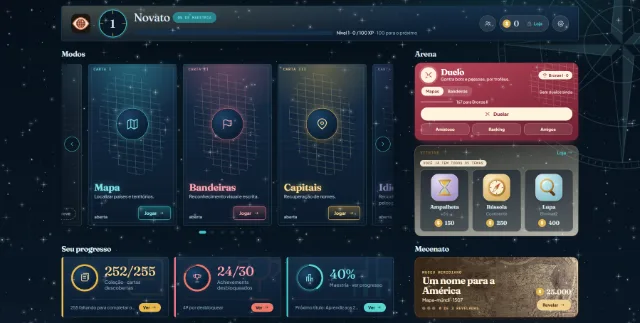
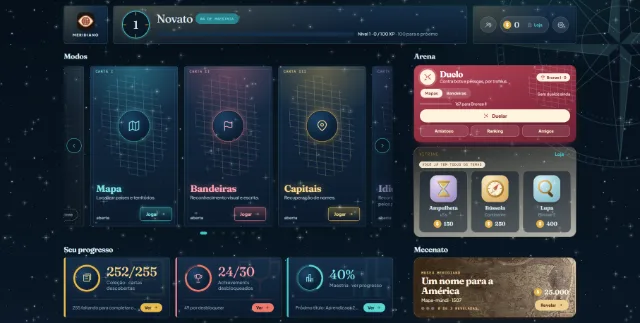
feat(hub): cabeçalho híbrido B+C no desktop (três peças soltas, cada tema pinta as suas) e barra compacta no celular

diff --git a/src/components/screens.tsx b/src/components/screens.tsx
@@ -313,9 +313,9 @@ export function Hub({
   return (
     <main className="content hub-content hx">
       <h1 className="sr-only">Meridiano</h1>
-      <header className="hub-bar hx-bar" aria-label={t.hub.profileAria}>
-        <div className="hub-brand" aria-hidden="true"><BrandLogo /><span>MERIDIANO</span></div>
-        <div className="hub-player">
+      <header className="hub-bar hx-bar hx-head" aria-label={t.hub.profileAria}>
+        <div className="hub-bar hx-piece hx-p-brand"><div className="hub-brand" aria-hidden="true"><BrandLogo /><span>MERIDIANO</span></div></div>
+        <div className="hub-bar hx-piece hx-p-player"><div className="hub-player">
           <div className={`hub-level${framed ? " lg-frame" : ""}`} data-league={framed ? league.league : undefined} role="img" aria-label={t.hub.levelAria(level, xpInLevel, xpSpan)}>
             <LevelTicks />
             <svg className="hub-level-ring" viewBox="0 0 132 132" aria-hidden="true"><circle className="hub-ring-track" cx="66" cy="66" r="58" />{xpInLevel > 0 && xpSpan > 0 && <circle className="hub-ring-arc" cx="66" cy="66" r="58" strokeDasharray={`${2 * Math.PI * 58 * Math.min(1, xpInLevel / xpSpan)} ${2 * Math.PI * 58}`} />}</svg>
@@ -332,12 +332,12 @@ export function Hub({
             <div className="hub-track" role="progressbar" aria-label={t.hub.xpProgressAria} aria-valuemin={0} aria-valuemax={xpSpan} aria-valuenow={xpInLevel}><i style={{ width: `${ratioPercent(xpInLevel, xpSpan)}%` }} /></div>
             <span className="hub-xp-label">{t.hub.levelLineSpaced(level, xpInLevel, xpSpan)}<span className="hub-xp-next"> · {t.hub.xpToNext(xpToNext)}</span></span>
           </div>
-        </div>
-        <div className="hub-stats">
+        </div></div>
+        <div className="hub-bar hx-piece hx-p-wallet"><div className="hub-stats">
           {arenas?.onFriends && <button type="button" className="hub-friends" aria-label={t.hub.duelFriends} title={t.hub.duelFriends} onClick={arenas.onFriends}><Icon type="people" size={19} /><span>{t.hub.duelFriends}</span></button>}
           <button type="button" className="hub-coin" aria-label={t.hub.coinAria(formatNumber(economy?.balance ?? 0))} title={t.nav.store} onClick={() => onNavigate?.("store")}><i aria-hidden="true">$</i><strong>{formatNumber(economy?.balance ?? 0)}</strong><span className="hub-coin-store"><Icon type="store" size={15} /> {t.nav.store}</span></button>
           <button type="button" className="hub-gear" aria-label={t.nav.openOptions} title={t.nav.options} onClick={() => onNavigate?.("options")}><Icon type="settings" /></button>
-        </div>
+        </div></div>
       </header>
       <div className="hx-grid">
         <section className="hx-cell hx-modes" aria-labelledby="hx-modes-title">

diff --git a/src/hub.css b/src/hub.css
@@ -48,10 +48,17 @@
 .hx .hub-friends,.hx .hub-gear,.hx .hub-coin{background:rgba(255,255,255,.78);border:1px solid color-mix(in srgb,var(--line) 80%,#fff);color:var(--ink)}
 :root[data-scheme=dark] .hx .hub-friends,:root[data-scheme=dark] .hx .hub-gear,:root[data-scheme=dark] .hx .hub-coin{background:rgba(255,255,255,.09);border-color:rgba(255,255,255,.2)}
 @media (min-width:761px){
-  .hx .hub-bar{height:100px;padding:0 26px;gap:24px;border-radius:26px;box-shadow:0 22px 34px -24px rgba(36,59,58,.6)}
-  .hx .hub-brand{border-right:0;padding:0}
-  .hx .hub-brand span{display:none}
-  .hx .hub-brand .brand-logo{width:54px;height:54px;border-radius:15px;box-shadow:0 10px 16px -10px rgba(0,0,0,.6)}
+  /* três peças soltas (marca · jogador · carteira): cada uma leva a classe hub-bar, então cada tema pinta as três com o próprio acabamento; o contêiner fica sem fundo */
+  .hx .hx-head{display:flex;align-items:stretch;gap:16px;height:auto;min-height:0;padding:0;margin:0 0 4px;overflow:visible;background:none!important;border:0!important;box-shadow:none!important;-webkit-backdrop-filter:none!important;backdrop-filter:none!important}
+  .hx .hx-head::before{content:none}
+  .hx .hx-piece{display:flex;align-items:center;height:auto;margin:0;padding:14px 24px;gap:14px;border-radius:22px;box-shadow:0 18px 28px -22px rgba(36,59,58,.6)}
+  .hx .hx-p-brand{flex:none;flex-direction:column;justify-content:center}
+  .hx .hx-p-brand .hub-brand{flex-direction:column;gap:8px;padding:0;border:0;font-size:10px;letter-spacing:.18em}
+  .hx .hx-p-brand .hub-brand span{display:block;padding:0}
+  .hx .hx-p-brand .hub-brand .brand-logo{width:50px;height:50px;border-radius:14px;box-shadow:0 10px 16px -10px rgba(0,0,0,.6)}
+  .hx .hx-p-player{flex:1;min-width:0}
+  .hx .hx-p-player .hub-player{flex:1}
+  .hx .hx-p-wallet{flex:none;padding:14px 20px}
   .hx .hub-player{column-gap:20px;row-gap:7px}
   .hx .hub-level{width:78px;height:78px;filter:drop-shadow(0 10px 14px rgba(36,59,58,.3))}
   .hx .hub-level strong{font-size:32px}
@@ -258,6 +265,7 @@
 /* ───────── celular: tudo numa tela, sem rolagem ─────────
    cabeçalho, UM modo por vez (com os vizinhos espiando e laço), Duelo e, na última linha, Vitrine e Mecenato; o progresso fica por conta da barra de baixo */
 @media (max-width:760px){
+  .hx .hx-piece{display:contents}
   .hx{padding:8px 8px 10px!important;min-height:0;grid-template-rows:auto minmax(min-content,1fr);overflow-x:hidden;overflow-y:auto}
   .hx .section-label{position:absolute;width:1px;height:1px;margin:0;overflow:hidden;clip:rect(0 0 0 0);white-space:nowrap}
   .hx .hub-bar{gap:8px;height:auto;padding:7px 9px;margin:0;border-radius:16px}

diff --git a/CLAUDE.md b/CLAUDE.md
@@ -53,7 +53,7 @@ Este arquivo descreve o **rebuild** (estado em 25/09/2026). O jogo antigo, um ú
 Hub (4 famílias: Mapa, Bandeiras, Capitais, Idiomas; carrossel no celular; seletor Solo | Duelo, ver 3.2d) → "Configure a partida" (`match-config.tsx`: **Modo, Ritmo, Rodadas, Recorte, Filtro "Só membros da ONU"**, ligado por padrão desde 26/09; a escolha vale até fechar o app, não é gravada) → partida → resultado (`result-screen.tsx`, moedas/XP). Fora da partida: Progresso (Perfil, Maestria, Conquistas, Desempenho), Coleção (Países / Históricas), Conquistas, Loja (temas), Opções (idioma, tema, movimento reduzido, barra de tempo, progresso, mapa offline, debug). `useLeaveGuard`: sair no meio **não paga moedas nem XP**; com ao menos uma resposta pede confirmação.
 
 ### 3.2e Hub novo (03/10/2026, em etapas; mocks aprovados em `../mockups-carta-cega/hub-final`)
-O Hub (`screens.tsx`, `hub-parts.tsx`, `hub.css`) foi refeito: **header fino** de uma linha (marca, anel de nível com a moldura da liga, título, ícones dos títulos, chip de maestria, barra de XP, chip de troféus, moedas com a palavra "Loja", engrenagem; partidas e rodadas saíram do Hub, seguem no Progresso) e **grade 2×2**: à esquerda o **carrossel dos modos** (`HubCarousel`, **em laço**: 3 cartões inteiros por vez no desktop, 2 em tablet e 1 no celular, com a borda do vizinho aparecendo dos dois lados, setas nos dois sentidos, pontos, deslize por toque e clique no vizinho para avançar; hoje Mapa, Bandeiras, Capitais e Idiomas. O laço é a fila renderizada 3 vezes, só a do meio interativa e as outras `inert`, e a posição volta em silêncio para a do meio quando o deslize termina; o passo é medido com `getBoundingClientRect`, porque `offsetLeft` arredonda e o erro cresce a cada cartão) e embaixo "Seu progresso" (3 tiles verticais); à direita o **Duelo** (`HubDuel`) e a **Vitrine** (`HubShowcase`) e embaixo o **Mecenato** (`HubMuseum`, abre a aba do Museu da Coleção por `initialAlbum`). O interruptor Solo | Duelo **saiu**: o Duelo mora no próprio cartão (escada Mapas | Bandeiras, liga e troféus, últimos 5 resultados, "Duelar" na fila valendo, e Amistoso, Ranking e Amigos; buscando, vira "Procurando… m:ss", duelar contra bot e cancelar). O painel "Próximos prêmios" da arena antigo foi trocado pela barra "N para a próxima divisão" no cartão; `DuelArenas` e `duelMode` foram **removidos** em 04/10 (o tipo `ArenaSearch` mora em `hub-parts.tsx`; "Jogar contra bots" da tela da fila só volta ao Hub). **Vitrine:** `pickShowcaseTheme` (`hub-showcase.ts`, `test:hub-showcase`) mostra o tema mais caro que cabe no saldo (ou o mais barato que falta); **com todos os temas comprados destaca os três suprimentos** (Ampulheta, Bússola e Lupa, com ilustrações próprias em `supply-art.tsx`, usadas também na Loja) e o toque leva à Loja já na aba Suprimentos (`onOpenSupplies`, `storeTab` no `app.tsx`). **Cartão de modo:** precisão do pilar (`titleScore`) vinda do `syncAchievements` do app. **Cabeçalho "medalhas" (04/10, opção C dos mocks em `mockups-carta-cega/hub-header`, escolhida pelo Enzo):** barra de 100 px (desktop) com anel de nível de 78 px, nome grande, **títulos como medalhas redondas de latão** (o nome fica em `title` e no rótulo para leitor de tela), maestria em pílula verde-escura, barra de XP com marcas de 10%, marca só com o logo, e à direita **Amigos, moedas e engrenagem em fichas brancas** (decisão do Enzo: a pílula de moedas em latão brigava com a moeda dourada). O brilho de latão é um `::before` à parte, então fundo, borda e raio de cada tema seguem sendo dos temas; no celular o cabeçalho compacto de antes só ganhou as fichas brancas. Mocks B (peças soltas) e D (faixa escura) ficaram descartados. **Ajustes de 04/10 (feedback do Enzo no link ao vivo):** o **chip de troféus/elo saiu do cabeçalho** (duplicava a pílula do cartão do Duelo, que segue abrindo a Liga) e entrou o botão **Amigos** (`.hub-friends`, ícone `people`; só ícone no celular); a marca ficou maior e o XP ocupa o meio; com a largura do cabeçalho sobrando, os selos de título mostram o nome a partir de 1280 px. O carrossel ganhou **Gentílicos e Moedas como "Em breve"** (cartões `.is-soon`, sem ação, na tinta do tema; quando o modo existir, vira item de `familyItems`). **"Seu progresso"** foi refeito no desktop: cada tile tem um **anel de progresso** em volta do ícone, o número grande, uma marca d'água do ícone, a legenda e um botão "Ver" (cor própria por tile, mais clara no esquema escuro; `--tile`). **Largura (04/10, pedido do Enzo):** o Hub usa até 1560 px (antes 1168; testei 1760 e as laterais do cabeçalho ficavam vazias, 04/10), com a coluna da direita entre 320 e 460 px e um vão de 30 a 60 px entre as colunas; os cartões de modo não encolhem, quem cede é o vão. **Celular (≤760 px):** tudo numa tela e sem rolagem: cabeçalho, **um modo por vez** num retângulo grande (carrossel em laço, com os vizinhos espiando e setas), Duelo em faixa e, na última linha antes da barra de baixo, Vitrine e Mecenato lado a lado; **o progresso saiu do celular** (a barra de baixo já cumpre o papel) e as pílulas "Mais modos" também (todos os modos estão no carrossel). Em telefone baixo (≤700 px de altura) somem a descrição e o resumo da última partida do cartão. CSS: `hub.css` vem depois do `index.css` e antes dos temas; os temas seguem pintando `.hub-bar`, `.family` e os tiles; as peças novas só usam variáveis de cor. **"Continuar" embutido (etapa 2):** ao começar uma partida solo o app grava a configuração do modo (`carta-last-config:<modo>`, `parseLastConfig` em `presets.ts`, testado em `test:presets`); o cartão mostra uma pílula com ela (nome da favorita, ex. "Escrita · Mundo · 20"), o botão **Continuar** (repete sem passar pela configuração; `continueGame` no `app.tsx`, que cai na configuração se o modo ou o corte de rodadas não estiver liberado) e o ícone de **ajustar** (abre a configuração); sem partida gravada, só "Jogar". O cartão inteiro é uma sobreposição (`.hx-hit`) que abre a configuração. A barra de baixo do celular passou a ter os cinco destinos com rótulo (Modos, Coleção, Conquistas, Progresso e **Loja**; as Opções abrem pela engrenagem do Hub). **Loja reimaginada (etapa 3, 03/10/2026; `store-view.tsx`, `store.css`, `domain/store-catalog.ts`, `test:store-catalog`):** a tela é uma vitrine, não uma lista: barra fina (← Hub, "Loja", saldo), **destaque** (`pickShowcaseTheme`, o mesmo do Hub: o tema mais caro que cabe, senão o mais barato que falta, com barra "Você tem X · faltam Y"; some quando todos os temas são seus), **abas** Tudo, Temas, Modos, Rodadas, Suprimentos e Ligas (contadores do que falta comprar, `storeCounts`), **"Sugestões para você"** (`storeSuggestions`: o modo mais barato, o tema mais perto do saldo, o corte de rodadas mais barato e um suprimento), seções por tipo e a faixa do Mecenato (abre a aba Museu da Coleção). **Tudo o que se compra passa por uma confirmação** (`PurchaseDialog`: preço, saldo, depois ou quanto falta; folha inferior no celular; Esc fecha; suprimento tem seletor de quantidade). Modos à venda vêm de `POLICIES` (custo > 0) e se compram com `unlockContent(família, variante, "mundo")`; cortes de rodada com `unlockRounds`; temas e suprimentos como antes. **Experimentar (04/10):** na confirmação de compra de um tema (e no destaque) há "Experimentar": o tema vale na tela sem gravar nem cobrar (`tryTheme`/`trial` no `app.tsx`; o `localStorage` segue com o tema de verdade), uma faixa `TrialBar` avisa no Hub e na Loja, e o teste acaba quando a pessoa **sai do resultado da próxima partida** (ou em "Sair do teste"); comprar durante o teste limpa o teste. Temas de liga não se experimentam. **Sem temas a comprar, o destaque do topo mostra os três suprimentos** (como a Vitrine do Hub). **Largura e cor (04/10):** a Loja usa a mesma largura do Hub (até 1560 px) com colunas que se adaptam (`auto-fill`); as linhas curtas da aba Tudo mostram 4 cartões (6 acima de 1500 px) e os cartões de modo levam a cor da família (Mapa, Bandeiras, Capitais, Idiomas; `modeFam`), enquanto rodadas e suprimentos ficam na tinta do tema. **Prévias dos temas** (`scripts/build-theme-previews.mjs`, mostradas no destaque e nos cartões da Loja e na Vitrine) foram regeradas para o Hub novo: BASE padrão `127.0.0.1:5101` (servidor de desenvolvimento, nunca a 5000), perfil de amostra com todos os temas (por isso a Vitrine sai com os suprimentos em todas), `captureBeyondViewport:false` (o padrão do Puppeteer redimensiona a janela e o scroll-snap do carrossel trocava de cartão) e a captura é reduzida no próprio Chrome para 640×323, uns 20 KB cada. Rode de novo quando o Hub ou o CSS de um tema mudar. O CSS antigo `store-*` dos temas foi removido em 04/10 (sobrou só `.store-swatches`, agora em `store.css`, usado também pela Vitrine do Hub). Cores só por variáveis do tema (`color-mix` com `--brass`, `--green`, `--ink`), então os temas escuros não pedem regra própria; `audit-theme.mjs <tema> loja` (agora com as abas novas e as duas confirmações) fecha com 0 violações em Pigmentos, Noturno, Cartógrafo, Prata, Aquarela e Atlas no desktop e em Pigmentos, Noturno, Cartógrafo e Atlas no celular. Junto saíram o ícone `check` e o ícone `close` (o `cross` do projeto desenha um "+") e a barra superior genérica (`.topbar`) dos temas escuros, que ficava creme (`themes-dark.css`). **Mesa de jogo (04/10/2026; `match-config.tsx`, `mesa.css`, mock `hub-v10` n4–n7):** a tela "Configure a partida" virou a Mesa: **a Mesa mostra só os modos da família que foi aberta** (decisão do Enzo, 04/10: quem clica em Mapas vê modos de mapa; a faixa que trocava de família foi tirada), em cartões grandes sob o rótulo "Modo" (com dica, cadeado e preço), Ritmo, Rodadas e Recorte lado a lado, filtro da ONU, Favoritas e a barra de resumo com "Começar". O topo é a `ScreenBar` (`screen-bar.tsx`, a mesma da Loja: marca, voltar, ícone da família ou título, saldo). A família pinta a tela (`data-fam` no `.mz` entrega o `--h` do tema). Ao lado: **Seu histórico** (anel com a precisão do pilar; **sem o gráfico das últimas partidas e sem "Mais difíceis para você" nem "Pergunta de exemplo" do mock**, que pedem dados/textos novos) e **Recompensa** (moedas por acerto, teto de sequência `STREAK_CAP` e bônus por rodada completa). Toda a lógica da tela antiga (compra de modo e de corte de rodadas, direção das bandeiras, favoritas) foi mantida. **Armadilha (achada na Mesa):** o carrossel do Hub trata clique **sem coordenadas** (`element.click()`) como clique no vizinho; testes de navegador precisam de clique de verdade (`openMode` em `audit-theme.mjs`). **Bug corrigido junto:** em temas que põem camadas sobre o cartão (Noturno) a arte do cartão do Hub interceptava o clique; `.family-visual` e `.family-copy` agora têm `pointer-events:none`.
+O Hub (`screens.tsx`, `hub-parts.tsx`, `hub.css`) foi refeito: **header fino** de uma linha (marca, anel de nível com a moldura da liga, título, ícones dos títulos, chip de maestria, barra de XP, chip de troféus, moedas com a palavra "Loja", engrenagem; partidas e rodadas saíram do Hub, seguem no Progresso) e **grade 2×2**: à esquerda o **carrossel dos modos** (`HubCarousel`, **em laço**: 3 cartões inteiros por vez no desktop, 2 em tablet e 1 no celular, com a borda do vizinho aparecendo dos dois lados, setas nos dois sentidos, pontos, deslize por toque e clique no vizinho para avançar; hoje Mapa, Bandeiras, Capitais e Idiomas. O laço é a fila renderizada 3 vezes, só a do meio interativa e as outras `inert`, e a posição volta em silêncio para a do meio quando o deslize termina; o passo é medido com `getBoundingClientRect`, porque `offsetLeft` arredonda e o erro cresce a cada cartão) e embaixo "Seu progresso" (3 tiles verticais); à direita o **Duelo** (`HubDuel`) e a **Vitrine** (`HubShowcase`) e embaixo o **Mecenato** (`HubMuseum`, abre a aba do Museu da Coleção por `initialAlbum`). O interruptor Solo | Duelo **saiu**: o Duelo mora no próprio cartão (escada Mapas | Bandeiras, liga e troféus, últimos 5 resultados, "Duelar" na fila valendo, e Amistoso, Ranking e Amigos; buscando, vira "Procurando… m:ss", duelar contra bot e cancelar). O painel "Próximos prêmios" da arena antigo foi trocado pela barra "N para a próxima divisão" no cartão; `DuelArenas` e `duelMode` foram **removidos** em 04/10 (o tipo `ArenaSearch` mora em `hub-parts.tsx`; "Jogar contra bots" da tela da fila só volta ao Hub). **Vitrine:** `pickShowcaseTheme` (`hub-showcase.ts`, `test:hub-showcase`) mostra o tema mais caro que cabe no saldo (ou o mais barato que falta); **com todos os temas comprados destaca os três suprimentos** (Ampulheta, Bússola e Lupa, com ilustrações próprias em `supply-art.tsx`, usadas também na Loja) e o toque leva à Loja já na aba Suprimentos (`onOpenSupplies`, `storeTab` no `app.tsx`). **Cartão de modo:** precisão do pilar (`titleScore`) vinda do `syncAchievements` do app. **Cabeçalho híbrido B+C (04/10, mocks em `mockups-carta-cega/hub-header`, escolhido pelo Enzo):** no desktop o cabeçalho são **três peças soltas** (marca com o nome embaixo · jogador · carteira), cada uma com a classe `hub-bar` (`hx-piece`), então **cada tema pinta as três com o próprio acabamento** (vidro no Noturno, folha reta no Atlas…); o contêiner (`hx-head`, também `hub-bar`) fica sem fundo com `!important`. O jogador tem anel de 78 px, nome grande, **títulos como medalhas redondas de latão** (nome em `title` e no rótulo para leitor de tela), maestria em pílula verde-escura e barra de XP com marcas de 10%; à direita **Amigos, moedas e engrenagem em fichas brancas** (a pílula de moedas em latão brigava com a moeda dourada). O brilho de latão é um `::before` à parte. **No celular as peças se desfazem (`display:contents`) e voltam a ser uma barra compacta só** (não há espaço para subdivisões); o desenho B puro (peças com texto) e o D (faixa escura) foram descartados. **Ajustes de 04/10 (feedback do Enzo no link ao vivo):** o **chip de troféus/elo saiu do cabeçalho** (duplicava a pílula do cartão do Duelo, que segue abrindo a Liga) e entrou o botão **Amigos** (`.hub-friends`, ícone `people`; só ícone no celular); a marca ficou maior e o XP ocupa o meio; com a largura do cabeçalho sobrando, os selos de título mostram o nome a partir de 1280 px. O carrossel ganhou **Gentílicos e Moedas como "Em breve"** (cartões `.is-soon`, sem ação, na tinta do tema; quando o modo existir, vira item de `familyItems`). **"Seu progresso"** foi refeito no desktop: cada tile tem um **anel de progresso** em volta do ícone, o número grande, uma marca d'água do ícone, a legenda e um botão "Ver" (cor própria por tile, mais clara no esquema escuro; `--tile`). **Largura (04/10, pedido do Enzo):** o Hub usa até 1560 px (antes 1168; testei 1760 e as laterais do cabeçalho ficavam vazias, 04/10), com a coluna da direita entre 320 e 460 px e um vão de 30 a 60 px entre as colunas; os cartões de modo não encolhem, quem cede é o vão. **Celular (≤760 px):** tudo numa tela e sem rolagem: cabeçalho, **um modo por vez** num retângulo grande (carrossel em laço, com os vizinhos espiando e setas), Duelo em faixa e, na última linha antes da barra de baixo, Vitrine e Mecenato lado a lado; **o progresso saiu do celular** (a barra de baixo já cumpre o papel) e as pílulas "Mais modos" também (todos os modos estão no carrossel). Em telefone baixo (≤700 px de altura) somem a descrição e o resumo da última partida do cartão. CSS: `hub.css` vem depois do `index.css` e antes dos temas; os temas seguem pintando `.hub-bar`, `.family` e os tiles; as peças novas só usam variáveis de cor. **"Continuar" embutido (etapa 2):** ao começar uma partida solo o app grava a configuração do modo (`carta-last-config:<modo>`, `parseLastConfig` em `presets.ts`, testado em `test:presets`); o cartão mostra uma pílula com ela (nome da favorita, ex. "Escrita · Mundo · 20"), o botão **Continuar** (repete sem passar pela configuração; `continueGame` no `app.tsx`, que cai na configuração se o modo ou o corte de rodadas não estiver liberado) e o ícone de **ajustar** (abre a configuração); sem partida gravada, só "Jogar". O cartão inteiro é uma sobreposição (`.hx-hit`) que abre a configuração. A barra de baixo do celular passou a ter os cinco destinos com rótulo (Modos, Coleção, Conquistas, Progresso e **Loja**; as Opções abrem pela engrenagem do Hub). **Loja reimaginada (etapa 3, 03/10/2026; `store-view.tsx`, `store.css`, `domain/store-catalog.ts`, `test:store-catalog`):** a tela é uma vitrine, não uma lista: barra fina (← Hub, "Loja", saldo), **destaque** (`pickShowcaseTheme`, o mesmo do Hub: o tema mais caro que cabe, senão o mais barato que falta, com barra "Você tem X · faltam Y"; some quando todos os temas são seus), **abas** Tudo, Temas, Modos, Rodadas, Suprimentos e Ligas (contadores do que falta comprar, `storeCounts`), **"Sugestões para você"** (`storeSuggestions`: o modo mais barato, o tema mais perto do saldo, o corte de rodadas mais barato e um suprimento), seções por tipo e a faixa do Mecenato (abre a aba Museu da Coleção). **Tudo o que se compra passa por uma confirmação** (`PurchaseDialog`: preço, saldo, depois ou quanto falta; folha inferior no celular; Esc fecha; suprimento tem seletor de quantidade). Modos à venda vêm de `POLICIES` (custo > 0) e se compram com `unlockContent(família, variante, "mundo")`; cortes de rodada com `unlockRounds`; temas e suprimentos como antes. **Experimentar (04/10):** na confirmação de compra de um tema (e no destaque) há "Experimentar": o tema vale na tela sem gravar nem cobrar (`tryTheme`/`trial` no `app.tsx`; o `localStorage` segue com o tema de verdade), uma faixa `TrialBar` avisa no Hub e na Loja, e o teste acaba quando a pessoa **sai do resultado da próxima partida** (ou em "Sair do teste"); comprar durante o teste limpa o teste. Temas de liga não se experimentam. **Sem temas a comprar, o destaque do topo mostra os três suprimentos** (como a Vitrine do Hub). **Largura e cor (04/10):** a Loja usa a mesma largura do Hub (até 1560 px) com colunas que se adaptam (`auto-fill`); as linhas curtas da aba Tudo mostram 4 cartões (6 acima de 1500 px) e os cartões de modo levam a cor da família (Mapa, Bandeiras, Capitais, Idiomas; `modeFam`), enquanto rodadas e suprimentos ficam na tinta do tema. **Prévias dos temas** (`scripts/build-theme-previews.mjs`, mostradas no destaque e nos cartões da Loja e na Vitrine) foram regeradas para o Hub novo: BASE padrão `127.0.0.1:5101` (servidor de desenvolvimento, nunca a 5000), perfil de amostra com todos os temas (por isso a Vitrine sai com os suprimentos em todas), `captureBeyondViewport:false` (o padrão do Puppeteer redimensiona a janela e o scroll-snap do carrossel trocava de cartão) e a captura é reduzida no próprio Chrome para 640×323, uns 20 KB cada. Rode de novo quando o Hub ou o CSS de um tema mudar. O CSS antigo `store-*` dos temas foi removido em 04/10 (sobrou só `.store-swatches`, agora em `store.css`, usado também pela Vitrine do Hub). Cores só por variáveis do tema (`color-mix` com `--brass`, `--green`, `--ink`), então os temas escuros não pedem regra própria; `audit-theme.mjs <tema> loja` (agora com as abas novas e as duas confirmações) fecha com 0 violações em Pigmentos, Noturno, Cartógrafo, Prata, Aquarela e Atlas no desktop e em Pigmentos, Noturno, Cartógrafo e Atlas no celular. Junto saíram o ícone `check` e o ícone `close` (o `cross` do projeto desenha um "+") e a barra superior genérica (`.topbar`) dos temas escuros, que ficava creme (`themes-dark.css`). **Mesa de jogo (04/10/2026; `match-config.tsx`, `mesa.css`, mock `hub-v10` n4–n7):** a tela "Configure a partida" virou a Mesa: **a Mesa mostra só os modos da família que foi aberta** (decisão do Enzo, 04/10: quem clica em Mapas vê modos de mapa; a faixa que trocava de família foi tirada), em cartões grandes sob o rótulo "Modo" (com dica, cadeado e preço), Ritmo, Rodadas e Recorte lado a lado, filtro da ONU, Favoritas e a barra de resumo com "Começar". O topo é a `ScreenBar` (`screen-bar.tsx`, a mesma da Loja: marca, voltar, ícone da família ou título, saldo). A família pinta a tela (`data-fam` no `.mz` entrega o `--h` do tema). Ao lado: **Seu histórico** (anel com a precisão do pilar; **sem o gráfico das últimas partidas e sem "Mais difíceis para você" nem "Pergunta de exemplo" do mock**, que pedem dados/textos novos) e **Recompensa** (moedas por acerto, teto de sequência `STREAK_CAP` e bônus por rodada completa). Toda a lógica da tela antiga (compra de modo e de corte de rodadas, direção das bandeiras, favoritas) foi mantida. **Armadilha (achada na Mesa):** o carrossel do Hub trata clique **sem coordenadas** (`element.click()`) como clique no vizinho; testes de navegador precisam de clique de verdade (`openMode` em `audit-theme.mjs`). **Bug corrigido junto:** em temas que põem camadas sobre o cartão (Noturno) a arte do cartão do Hub interceptava o clique; `.family-visual` e `.family-copy` agora têm `pointer-events:none`.
 - **Cuidado ao verificar o build (aprendido em 03/10):** o servidor da porta 5000 roda `vite preview` com a pasta do projeto como `cwd`, então serve o **`dist/` do próprio repositório**. `npm run build` aqui **publica na hora** o que estiver na árvore de trabalho, sem passar pelo `servidor.mjs`. Para só conferir que o build fecha, rode o `tsc -b` e `npx vite build --outDir .tmp-build --emptyOutDir` (a pasta está no `.gitignore` por `.tmp-*`; apague depois). Desde 04/10 o plugin de precache do `vite.config.ts` respeita o `outDir` (antes gravava no `dist/` fixo e o `--outDir` ainda mexia no `dist/` ao vivo); conferido que o `dist/` não muda. `test:manifest` e o resto do `npm run build` leem o `dist/`, então só rodam no build de verdade. `audit-theme.mjs` (cenas hub/duelo/revelacao/liga/config) passa com 0 violações em Pigmentos, Noturno, Cartógrafo, Prata, Atlas, Aquarela e Ateliê (desktop) e Pigmentos/Noturno (celular).
 
 ### 3.2b Favoritas (configurações guardadas)
